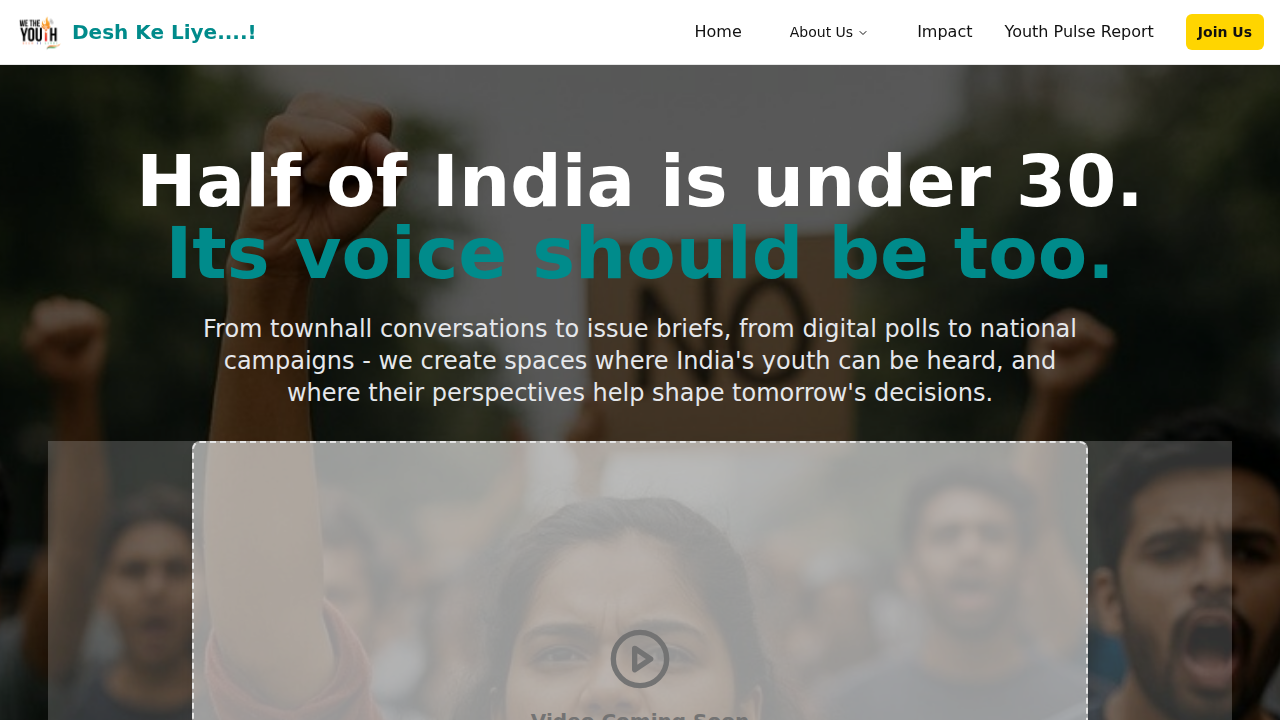
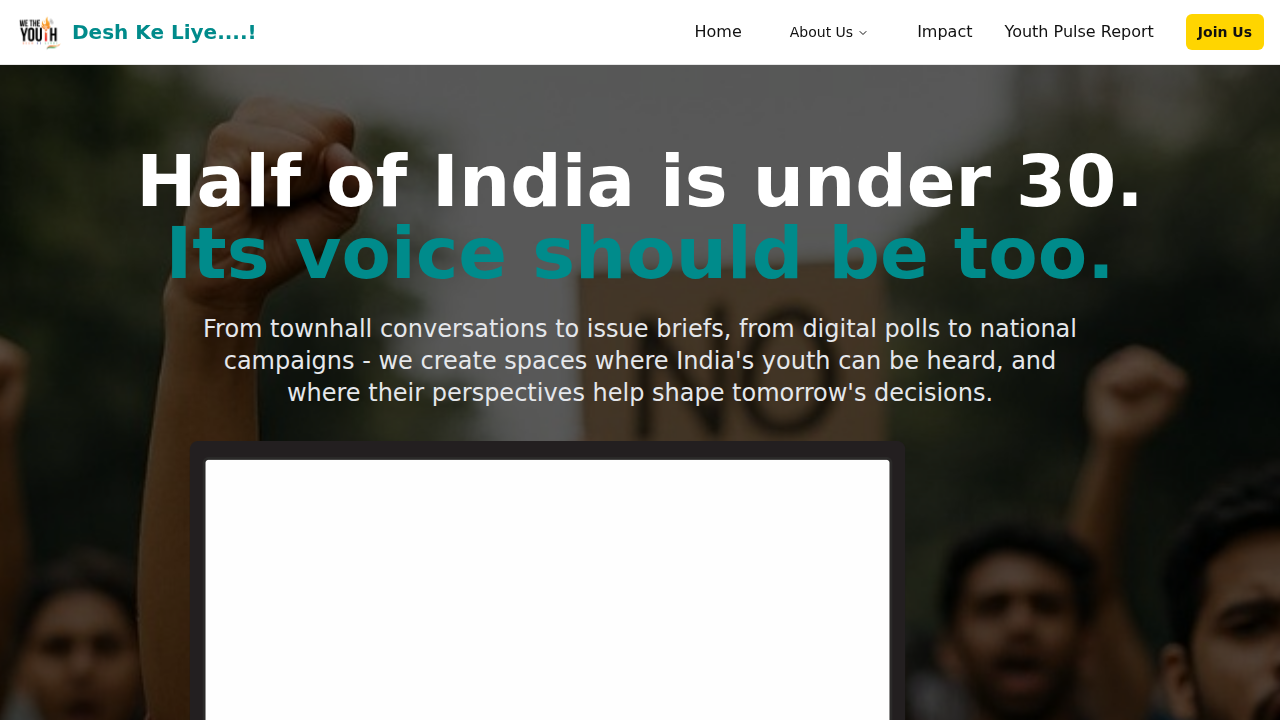
feat: Add background image and update video section
This commit adds a background image to the HeroSection component. The image is served locally from the `public` directory.

A dark, semi-transparent overlay has also been added to ensure the text is readable against the background image. The text colors have been updated to white and light gray for better contrast.

The video section has been updated to display an embedded YouTube video within a laptop frame.

diff --git a/src/components/VideoSection.tsx b/src/components/VideoSection.tsx
@@ -2,16 +2,12 @@ import { PlayCircle } from "lucide-react";
 
 export const VideoSection = () => {
   return (
-    <section className="px-4 bg-muted/20">
-      <div className="container mx-auto">
-        <div className="bg-background/50 aspect-video max-w-4xl mx-auto rounded-lg shadow-lg flex items-center justify-center border-2 border-dashed">
-          <div className="text-center text-muted-foreground">
-            <PlayCircle className="mx-auto mb-4 h-16 w-16" />
-            <h3 className="text-xl font-semibold">Video Coming Soon</h3>
-            <p>This space is reserved for a future video.</p>
-          </div>
-        </div>
-      </div>
-    </section>
+    <div className="preview-video-frame mx-auto mb-2">
+      <img src="/2024/images/frame-laptop.png" alt="Laptop frame" data-testid="video-frame-image" />
+      <iframe
+        src="https://www.youtube.com/embed/YUlzxZVRHy8"
+        id="iframe-preview"
+      ></iframe>
+    </div>
   );
 };

diff --git a/jules-scratch/verification/verify_video_section_with_frame.py b/jules-scratch/verification/verify_video_section_with_frame.py
@@ -6,14 +6,14 @@ def run(playwright):
     page = context.new_page()
 
     # Navigate to the home page
-    page.goto("http://127.0.0.1:8085/")
+    page.goto("http://127.0.0.1:8086/")
 
     # Wait for the iframe to be visible
     iframe = page.locator("iframe#iframe-preview")
     expect(iframe).to_be_visible()
 
     # Wait for the frame image to be visible
-    frame_image = page.locator('img[src="/frame-laptop.png"]')
+    frame_image = page.get_by_test_id("video-frame-image")
     expect(frame_image).to_be_visible()
 
     # Take a screenshot
